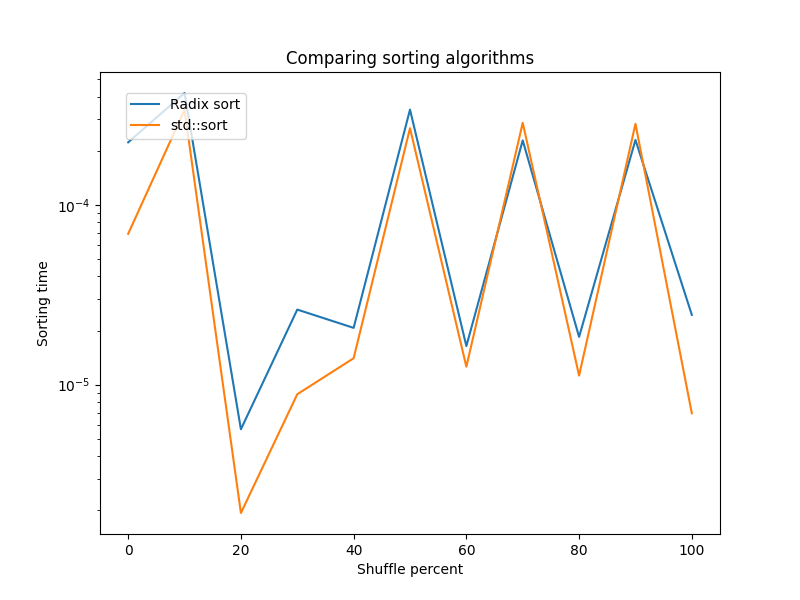
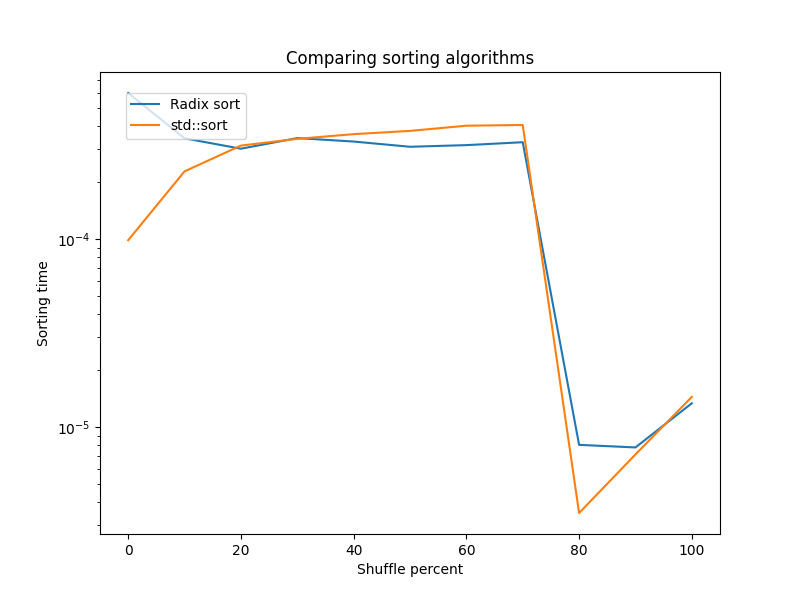
copies count decreased in radix sort

diff --git a/task_2_2/task_2_2.cpp b/task_2_2/task_2_2.cpp
@@ -74,15 +74,15 @@ void k_sort(long long *array, ssize_t size, long long digit, long long *tmp_arra
         arrays_indexes[current_digit]++;
     }
 
-    for (ssize_t i = 0; i < size; i++)
-    {
-        array[i] = tmp_array[i];
-    }
+    // for (ssize_t i = 0; i < size; i++)
+    // {
+    //     array[i] = tmp_array[i];
+    // }
 
     long long index_first = 0;
     for (long long i = 0; i < BASE_N; i++)
     {
-        k_sort(array + index_first, arrays_sizes[i], digit - 1, tmp_array);
+        k_sort(tmp_array + index_first, arrays_sizes[i], digit - 1, array + index_first);
         index_first += arrays_sizes[i];
     }
 }
@@ -107,6 +107,14 @@ void array_radix_sort(long long *array, ssize_t size)
     }
 
     k_sort(array, size, max_digits, tmp_array);
+
+    if (max_digits % 2 == 1)
+    {
+        for (ssize_t i = 0; i < size; i++)
+        {
+            array[i] = tmp_array[i];
+        }
+    }
 
     delete[] tmp_array;
 }
